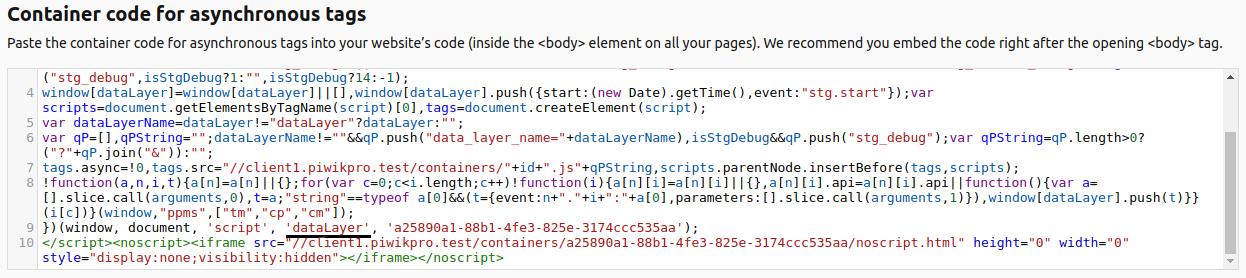
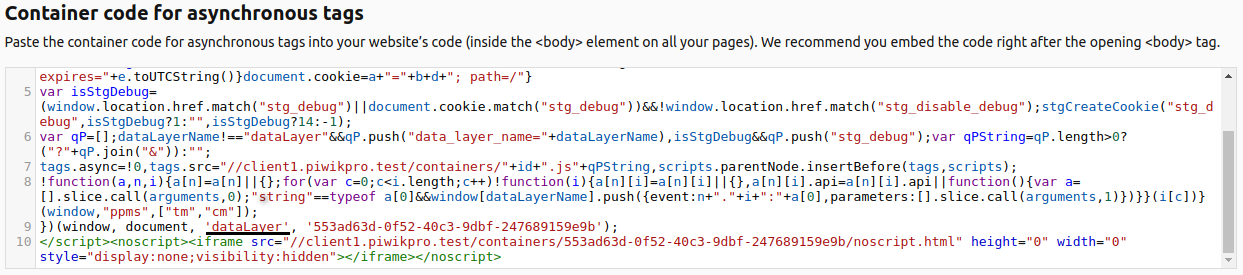
TM-5098: Create a guide on how to change data layer name
Update container code screens

Changed region(s): [[0.0, 0.2618, 1.0, 0.9891], [0.0, 0.1164, 0.9783, 0.2036], [0.0, 0.0, 0.3057, 0.0873]]

diff --git a/tag_manager/data_layer_name.rst b/tag_manager/data_layer_name.rst
@@ -17,14 +17,14 @@ If you wish to rename your data layer, you should follow the instructions below:
 1. Log into your PPMS instance.
 #. Head to `Menu` > `Administration`.
 #. Select the website that you want to set the new data layer name for and then go to the `Installation` page.
-#. From here you should copy the code of the snippet, that you want to use - asynchronous or synchronous - and make the following change:
+#. From here you should copy the code of the snippet, that you want to use - asynchronous or synchronous - and change the `dataLayer` value highlighted on the screens below:
 
-    a. for the asynchronous snippet, you need to change the `dataLayer` value highlighted on a screen below
+    a. for the asynchronous snippet
 
         .. image:: ../_static/images/async-container.png
             :alt: Container code for asynchronous tags
 
-    #. for the synchronous snippet, you need to input your desired name into the highlighted variable
+    #. for the synchronous snippet
 
         .. image:: ../_static/images/sync-container.png
             :alt: Container code for synchronous tags
